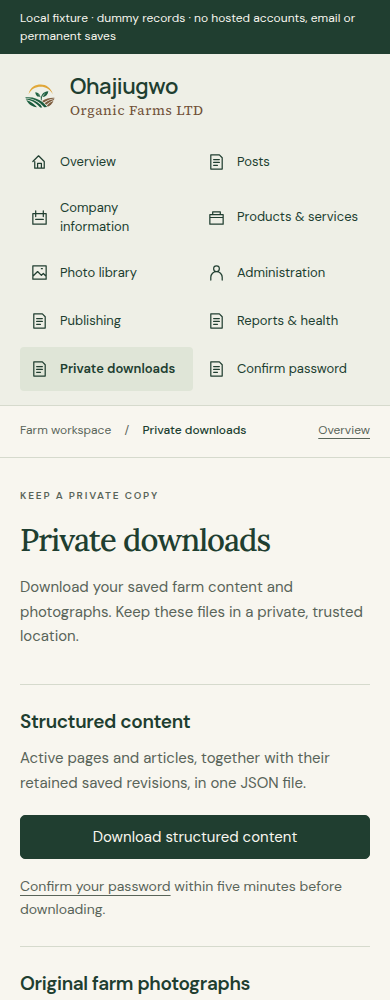
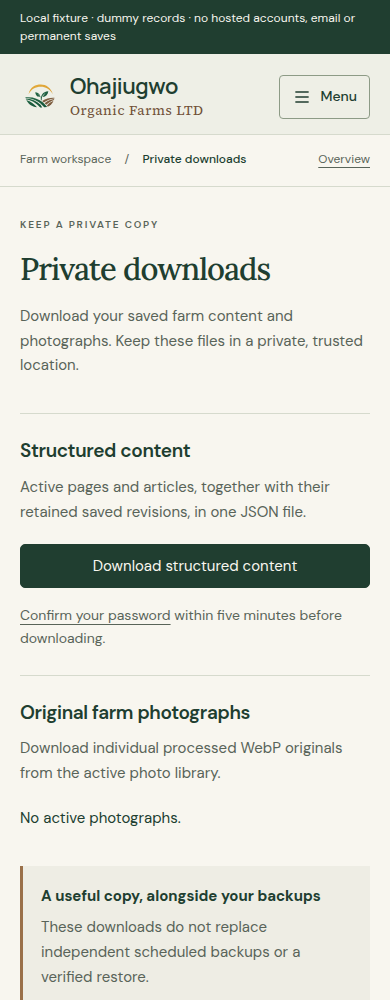
fix: add mobile workspace menu and correct story spacing

diff --git a/admin/workspace/screen.css b/admin/workspace/screen.css
@@ -20,3 +20,13 @@
 }
 .workspace-page .workspace-intro{max-width:68ch;margin-bottom:0}.workspace-page .workspace-section{padding:28px 0;border-top:1px solid var(--line)}.workspace-page .workspace-section>p{max-width:68ch;margin:0 0 20px}.workspace-page .workspace-section h2{margin:0 0 10px}.workspace-page .workspace-section .workspace-help{font-size:14px;margin:16px 0 0}.workspace-page .workspace-guidance{max-width:72ch;margin-top:12px;padding:20px 24px;background:var(--paper);border-left:3px solid #9a7049}.workspace-page .workspace-guidance p{margin:6px 0 0}.workspace-page .workspace-notice{margin:24px 0;padding:18px 20px;border-left:4px solid #496c85;background:#eaf0f4;color:#253f53;overflow-wrap:anywhere}.workspace-page .workspace-notice[data-state=error]{border-color:#8c2924;background:#fae9e4;color:#79251f}.workspace-page .workspace-notice:focus{outline:3px solid #aa672e;outline-offset:3px}.workspace-page #export-photos p{padding:14px 0;border-bottom:1px solid var(--line);margin:0}.workspace-page #export-photos button{max-width:100%;text-align:left}
 @media(max-width:800px){.workspace-page .workspace-section{padding:24px 0}.workspace-page .workspace-guidance{padding:18px}.workspace-page #export-content{width:100%}}
+
+/* Mobile disclosure keeps navigation compact without changing desktop pinning. */
+.workspace-page .workspace-menu-toggle{display:none}
+@media(max-width:800px){
+ .workspace-page .workspace-sidebar header,.editor-page.workspace-page .workspace-sidebar header{display:flex;align-items:center;justify-content:space-between;gap:12px;margin:0}
+ .workspace-page .workspace-sidebar[data-menu-ready] .workspace-menu-toggle{display:inline-flex;flex-shrink:0;align-items:center;gap:8px;justify-content:center;min-height:44px;padding:10px 12px;border:1px solid #8d9b86;background:transparent;color:var(--forest);border-radius:4px;font:500 14px/1.4 WorkspaceDM,Arial,sans-serif;cursor:pointer}
+ .workspace-page .workspace-sidebar nav,.editor-page.workspace-page .workspace-sidebar nav{grid-template-columns:1fr;margin-top:18px;padding-top:12px;border-top:1px solid var(--line);max-height:70dvh;overflow-y:auto;overscroll-behavior:contain}
+ .workspace-page .workspace-sidebar[data-menu-ready]:not([data-menu-open]) nav{display:none}
+ .workspace-page .workspace-sidebar nav a,.editor-page.workspace-page .workspace-sidebar nav button{padding:12px;min-height:44px}
+}

diff --git a/HANDOFF.md b/HANDOFF.md
@@ -1,5 +1,15 @@
 # Ohajiugwo Organic Farms Ltd — handoff
 
+## 21 November — mobile story spacing and shared hamburger navigation
+
+Owner reports no mobile space between rooted-in and Abia and requests a hamburger dropdown instead of the always-visible mobile admin links. Reproduced both with regressions before fixing. The story's `<br>` is hidden by the existing mobile CSS; added a real word space after it, preserving the desktop line break. Public markup/section/CSS preservation assertions were adjusted only for that authorised whitespace, and a separate text assertion prevents the joined words returning.
+
+Shared navigation now has an accessible mobile Menu button, disclosure state/label and single-column dropdown using the existing links (no duplicate navigation). It closes on selection, outside pointer interaction, focus leaving the sidebar and Escape; Escape returns focus to the toggle, and selecting in-page editor sections retains visible focus when appropriate. Native button Enter/Space activation works. Desktop navigation remains pinned and visible. Without JavaScript the links stay available rather than disappearing. The new fixed browser-only module is in the exact asset allowlist; Reports CSP now permits same-origin scripts for this shared module while continuing to reject inline/third-party scripts. No provider calls, credentials or persistence were added by navigation.
+
+Local checks: 242/242 administrator, 53/53 operations/reporting/publishing and 53/53 public/editor tests passed, plus hosting composition/build (3,396,909 raw worker bytes). Integrated browser checks passed all seven workspace fixture pages: collapsed mobile menu, Enter/Space open, Escape close/focus return, desktop/mobile reflow, plus keyboard selection of Company information and outside-click dismissal. Existing whole-workspace filter/form/recovery/keyboard regression passed. Screenshots include readiness-downloads-mobile and readiness-mobile-menu-open, visually inspected. These are local headless/dummy-provider results; physical mobile/screen-reader/owner appearance approval and hosted auth gates remain separate.
+
+No hosted migration, account/email, provider/SMTP/feature-flag change, production deploy or main merge. Stage 2 remains incomplete at pending011 and three Auth cleanup review jobs. Updating existing Stage 2 Preview follows the standing owner staging-review authorisation; deployment outcome is recorded after actual verification.
+
 ## 21 November — owner-requested landing copy and administrator layout refinements
 
 **Staging verified:** implementation commit `237dff53a98dd8746440972caabe97fda38cba60` was pushed to `stage-2-secure-content`. [Actions run 44932564118](https://github.com/code-arvel/ohajiugwo-farms-development/actions/runs/44932564118) passed all tests/builds and the actual Preview upload. Stable address remains https://stage2-preview.ohajiugwo-farms-development.pages.dev/; immutable deployment is https://0bd7d1c6.ohajiugwo-farms-development.pages.dev/. Read-only HTTPS verified homepage 200, accented Rooted-in/story markup, absence of visible five-hectare wording, current shared CSS/pinned-sidebar/download-section rules, and unauthenticated downloads redirect to sign-in. Protected-screen appearance still requires the owner's signed-in Brave review; local fixture results do not establish hosted authentication. No production/main/database/provider change. This documentation-only result update does not trigger another deployment.

diff --git a/design-system/ohajiugwo-organic-farms/MASTER.md b/design-system/ohajiugwo-organic-farms/MASTER.md
@@ -1,5 +1,9 @@
 # Ohajiugwo Organic Farms — project design system
 
+## 21 November — compact mobile administrator navigation
+
+Owner requests a hamburger dropdown in mobile administration. Use the existing logo plus a 44px Menu disclosure button, collapsed links by default after enhancement, a single-column dropdown and natural document flow. Desktop navigation stays pinned. Support native Enter/Space, Escape/focus return, selection/outside dismissal and visible keyboard focus. Without script, links remain available. Keep a real word space where the landing story line break disappears on mobile.
+
 ## 21 November — owner-requested UI refinement
 
 Landing tagline/story heading use “Rooted-in”/“rooted-in” with restrained warm-earth (#85512f on cream; #edce91 on forest) accent. No acreage wording in the visible story/farmland copy; confirmed source acreage is retained. Administrator sidebar has no footer content, stays pinned while desktop main content scrolls, and returns to natural mobile flow. All workspace screens use the shared logo/typography/navigation; downloads uses standard heading, separated sections and feedback. These requests supersede the older visible five-hectare copy and scrolling-sidebar guidance only. Owner visual review of the implementation remains pending.
